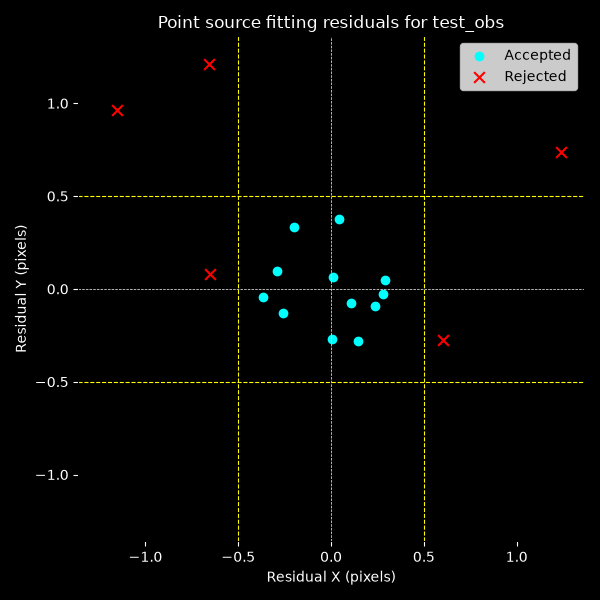
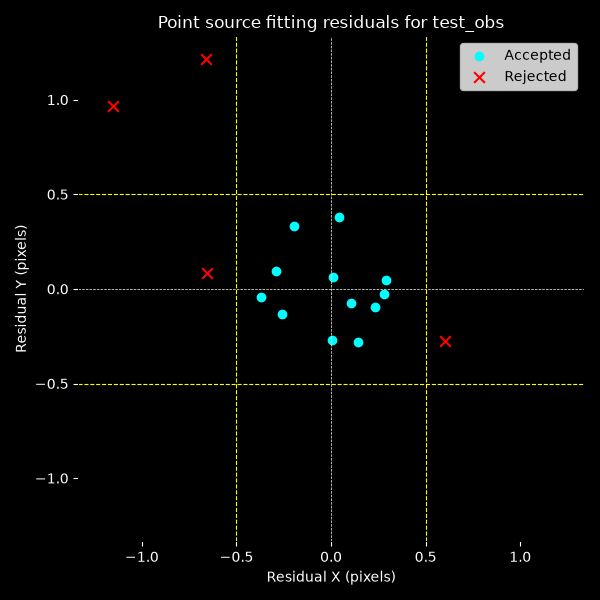
added sorter script

diff --git a/dev/sorter.py b/dev/sorter.py
@@ -1,0 +1,52 @@
+import json
+import sys 
+import os
+from astropy.io import fits
+import argparse
+import pathlib
+
+
+if __name__ == "__main__":
+
+    parser = argparse.ArgumentParser(description="Sort MUSE data for aligment pipeline")
+
+    parser.add_argument("input_dir", help="Input directory")
+
+    parser.add_argument(
+        "--output_dir",
+        type=pathlib.Path,
+        default=pathlib.Path.cwd(),
+        help="Directory to save the results. Default is current working directory.",
+    )
+
+    args = parser.parse_args()
+
+    input_dir = args.input_dir
+    output_dir = args.output_dir
+
+    os.makedirs(output_dir, exist_ok=True)
+
+    # all ".fits" files in the input directory
+    fits_files = [f for f in os.listdir(input_dir) if f.endswith(".fits")]
+
+    # sort the files by name 
+    fits_files.sort()
+
+
+    sorted_files = {}
+
+    for file in fits_files:
+        with fits.open(os.path.join(input_dir, file)) as hdul:
+            header = hdul[0].header
+
+            IEXPO_OBS = header.get("HIERARCH MUSEPIPE_IEXPO", None)
+            POINTING_OBS = header.get("HIERARCH MUSEPIPE_POINTING", None)
+            DATE_OBS = header.get("DATE-OBS", None)
+
+            print(f"File: {file}, IEXPO_OBS: {IEXPO_OBS}, POINTING_OBS: {POINTING_OBS}, DATE_OBS: {DATE_OBS}")
+
+            if POINTING_OBS not in sorted_files:
+                sorted_files[POINTING_OBS] = []
+
+            sorted_files[POINTING_OBS].append((IEXPO_OBS, DATE_OBS, file))
+
